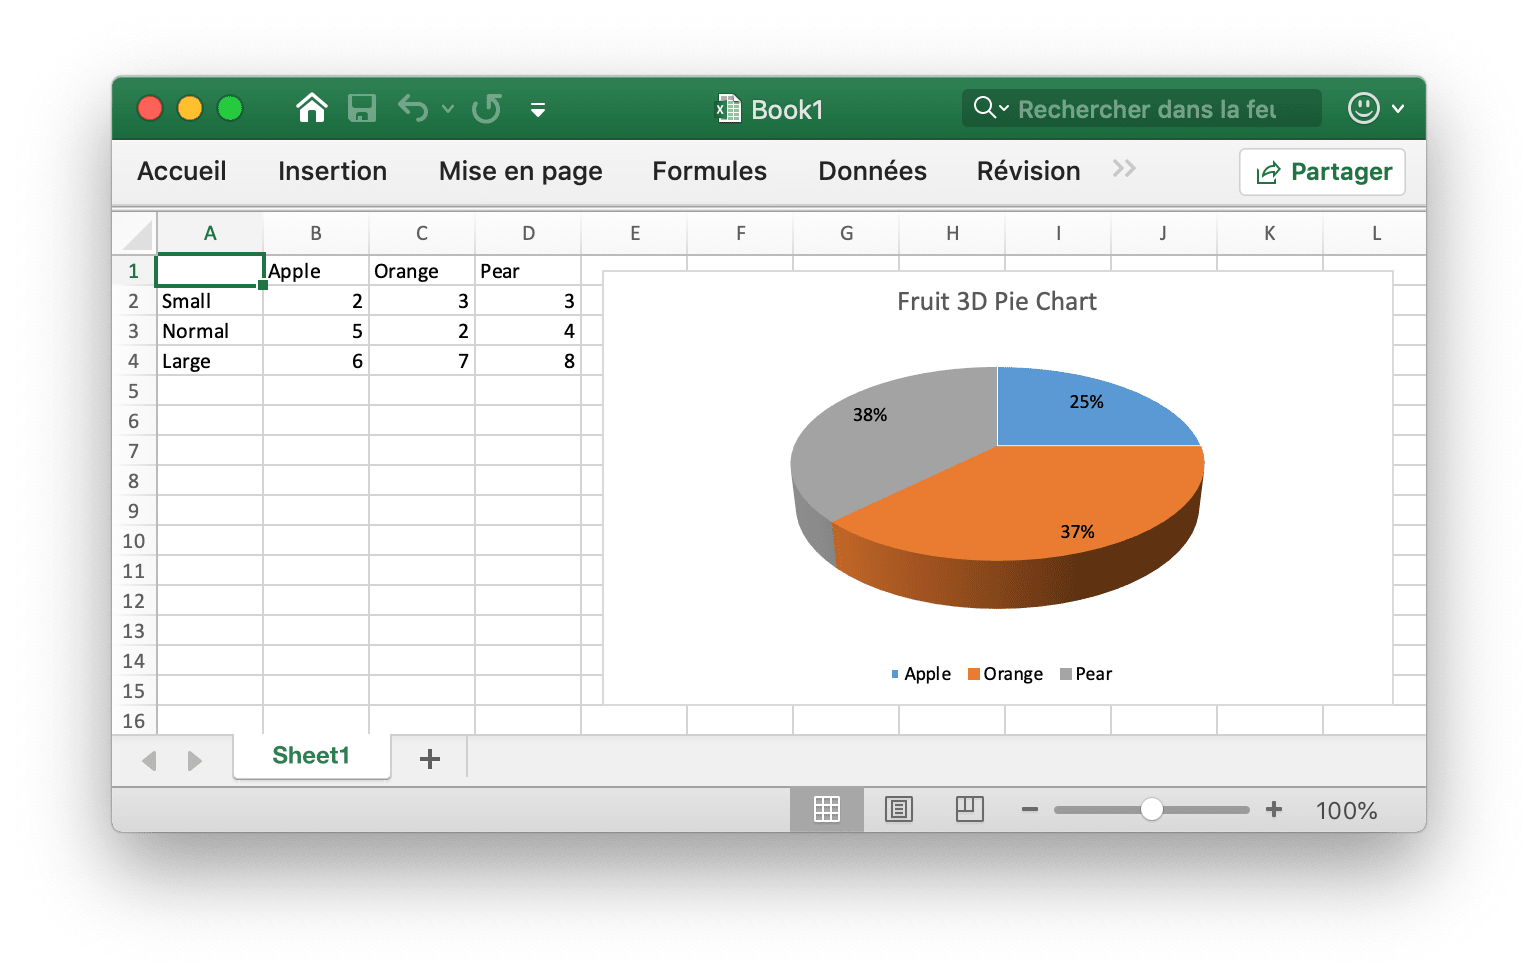
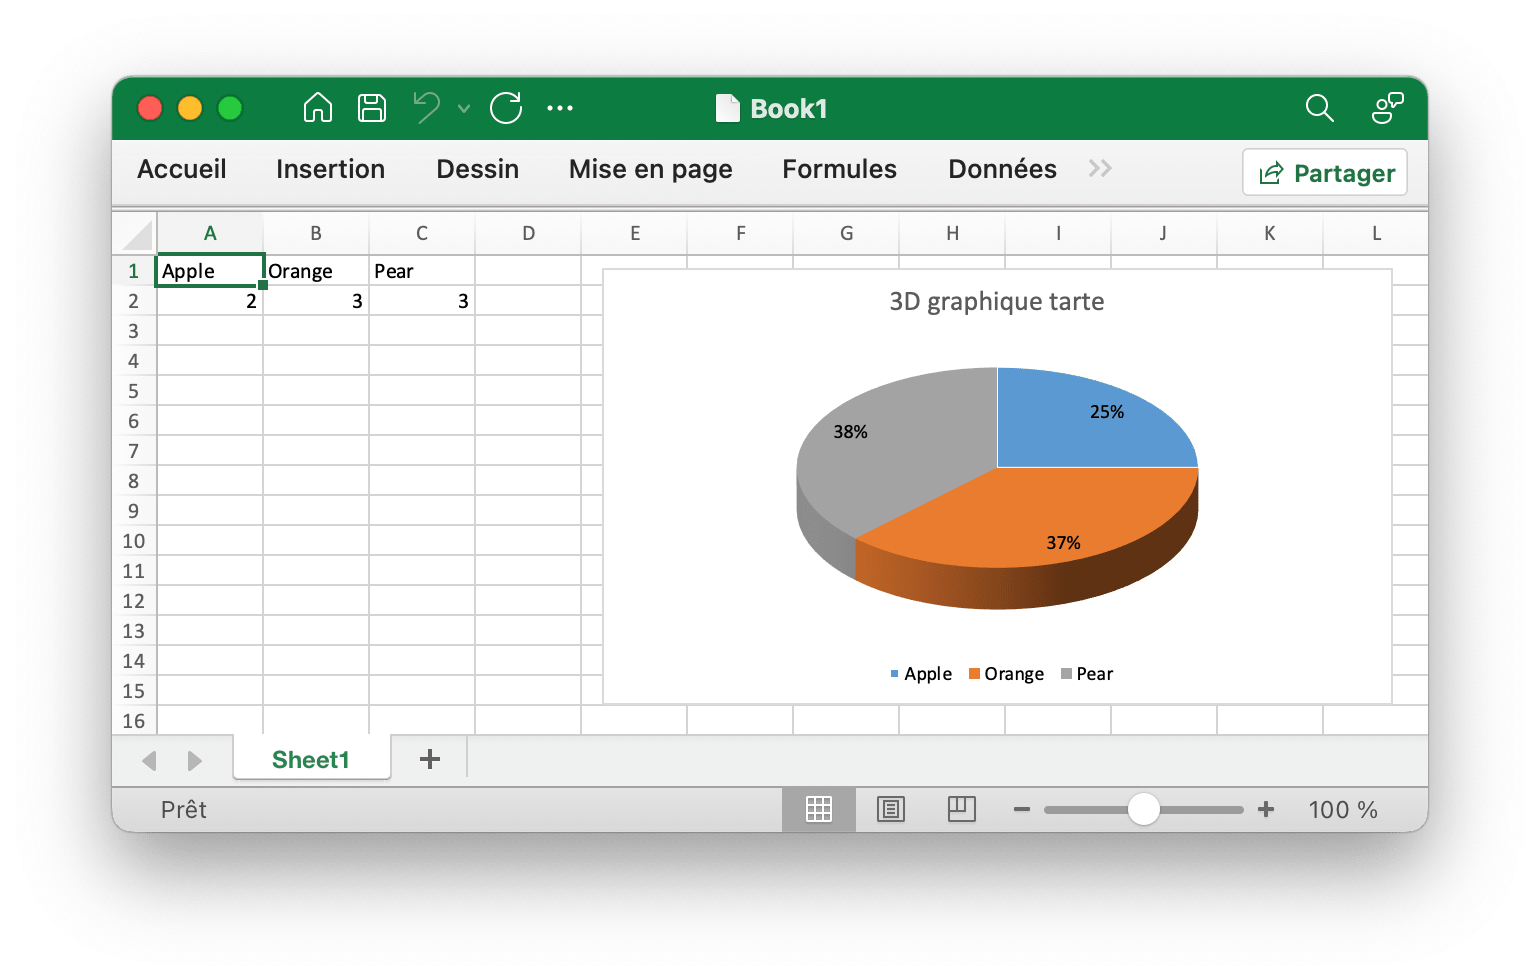
Changed the third parameter for the `AddFilter`
- This update fr version docs of pie/3D pie chart

diff --git a/ru/utils.md b/ru/utils.md
@@ -71,7 +71,7 @@ TableStyleDark11|<img src="../images/table_style/dark/11.png" width="61">||||
 ## Авто фильтр {#AutoFilter}
 
 ```go
-func (f *File) AutoFilter(sheet, rangeRef string, opts *AutoFilterOptions) error
+func (f *File) AutoFilter(sheet, rangeRef string, opts []AutoFilterOptions) error
 ```
 
 AutoFilter предоставляет метод добавления автоматического фильтра в рабочий лист с помощью имени рабочего листа, области координат и настроек. Автофильтр в Excel представляет собой способ фильтрации 2D спектра данных на основе простых критериев.
@@ -81,14 +81,14 @@ AutoFilter предоставляет метод добавления автом
 <p align="center"><img width="612" src="./images/autofilter_01.png" alt="Добавить автоматический фильтр"></p>
 
 ```go
-err := f.AutoFilter("Sheet1", "A1:D4", nil)
+err := f.AutoFilter("Sheet1", "A1:D4", []excelize.AutoFilterOptions{})
 ```
 
 Пример 2, данные фильтра в автофильтре:
 
 ```go
-err := f.AutoFilter("Sheet1", "A1:D4", &excelize.AutoFilterOptions{
-    Column: "B", Expression: "x != blanks",
+err := f.AutoFilter("Sheet1", "A1:D4", []excelize.AutoFilterOptions{
+    {Column: "B", Expression: "x != blanks"},
 })
 ```
 

diff --git a/ar/utils.md b/ar/utils.md
@@ -71,7 +71,7 @@ TableStyleDark11|<img src="../images/table_style/dark/11.png" width="61">||||
 ## فلتر السيارات {#AutoFilter}
 
 ```go
-func (f *File) AutoFilter(sheet, rangeRef string, opts *AutoFilterOptions) error
+func (f *File) AutoFilter(sheet, rangeRef string, opts []AutoFilterOptions) error
 ```
 
 يوفر AutoFilter طريقة لإضافة عامل تصفية تلقائي في ورقة عمل حسب اسم ورقة العمل المحدد ومنطقة الإحداثيات والإعدادات. يعد عامل التصفية التلقائي في Excel طريقة لتصفية نطاق ثنائي الأبعاد من البيانات بناءً على بعض المعايير البسيطة.
@@ -81,14 +81,14 @@ func (f *File) AutoFilter(sheet, rangeRef string, opts *AutoFilterOptions) error
 <p align="center"><img width="612" src="./images/autofilter_01.png" alt="فلتر السيارات"></p>
 
 ```go
-err := f.AutoFilter("Sheet1", "A1:D4", nil)
+err := f.AutoFilter("Sheet1", "A1:D4", []excelize.AutoFilterOptions{})
 ```
 
 مثال 2 ، تصفية البيانات في مرشح تلقائي:
 
 ```go
-err := f.AutoFilter("Sheet1", "A1:D4", &excelize.AutoFilterOptions{
-    Column: "B", Expression: "x != blanks",
+err := f.AutoFilter("Sheet1", "A1:D4", []excelize.AutoFilterOptions{
+    {Column: "B", Expression: "x != blanks"},
 })
 ```
 

diff --git a/ja/utils.md b/ja/utils.md
@@ -71,7 +71,7 @@ TableStyleDark11|<img src="../images/table_style/dark/11.png" width="61">||||
 ## 自動フィルタ {#AutoFilter}
 
 ```go
-func (f *File) AutoFilter(sheet, rangeRef string, opts *AutoFilterOptions) error
+func (f *File) AutoFilter(sheet, rangeRef string, opts []AutoFilterOptions) error
 ```
 
 AutoFilter は、ワークシートの名前、座標領域、および設定によってワークシートに自動フィルタを追加する方法を提供します。Excel の自動フィルタは、いくつかの単純な条件に基づいて 2D 範囲のデータをフィルター処理する方法です。
@@ -81,14 +81,14 @@ AutoFilter は、ワークシートの名前、座標領域、および設定に
 <p align="center"><img width="612" src="./images/autofilter_01.png" alt="自動フィルタの追加"></p>
 
 ```go
-err := f.AutoFilter("Sheet1", "A1:D4", nil)
+err := f.AutoFilter("Sheet1", "A1:D4", []excelize.AutoFilterOptions{})
 ```
 
 例 2，では、オートフィルターでデータをフィルター処理します:
 
 ```go
-err := f.AutoFilter("Sheet1", "A1:D4", &excelize.AutoFilterOptions{
-    Column: "B", Expression: "x != blanks",
+err := f.AutoFilter("Sheet1", "A1:D4", []excelize.AutoFilterOptions{
+    {Column: "B", Expression: "x != blanks"},
 })
 ```
 

diff --git a/de/utils.md b/de/utils.md
@@ -71,7 +71,7 @@ TableStyleDark11|<img src="../images/table_style/dark/11.png" width="61">||||
 ## Automatischer Filter {#AutoFilter}
 
 ```go
-func (f *File) AutoFilter(sheet, rangeRef string, opts *AutoFilterOptions) error
+func (f *File) AutoFilter(sheet, rangeRef string, opts []AutoFilterOptions) error
 ```
 
 AutoFilter bietet die Methode zum Hinzufügen eines automatischen Filters in einem Arbeitsblatt anhand des angegebenen Arbeitsblattnamens, des Koordinatenbereichs und der Einstellungen. Ein automatischer Filter in Excel ist eine Möglichkeit, einen 2D-Datenbereich anhand einiger einfacher Kriterien zu filtern.
@@ -81,14 +81,14 @@ Beispiel 1: Anwenden eines automatischen Filters auf einen Zellbereich `A1:D4` i
 <p align="center"><img width="612" src="./images/autofilter_01.png" alt="Automatischen Filter hinzufügen"></p>
 
 ```go
-err := f.AutoFilter("Sheet1", "A1:D4", nil)
+err := f.AutoFilter("Sheet1", "A1:D4", []excelize.AutoFilterOptions{})
 ```
 
 Beispiel 2: Filtern von Daten in einem automatischen Filter:
 
 ```go
-err := f.AutoFilter("Sheet1", "A1:D4", &excelize.AutoFilterOptions{
-    Column: "B", Expression: "x != blanks",
+err := f.AutoFilter("Sheet1", "A1:D4", []excelize.AutoFilterOptions{
+    {Column: "B", Expression: "x != blanks"},
 })
 ```
 

diff --git a/fr/utils.md b/fr/utils.md
@@ -71,7 +71,7 @@ TableStyleDark11|<img src="../images/table_style/dark/11.png" width="61">||||
 ## Filtre auto {#AutoFilter}
 
 ```go
-func (f *File) AutoFilter(sheet, rangeRef string, opts *AutoFilterOptions) error
+func (f *File) AutoFilter(sheet, rangeRef string, opts []AutoFilterOptions) error
 ```
 
 AutoFilter fournit la méthode pour ajouter un filtre automatique dans une feuille de calcul en fonction du nom de la feuille de calcul, de la zone de coordonnées et des paramètres. Un filtre automatique dans Excel est un moyen de filtrer une plage de données 2D en fonction de critères simples.
@@ -81,14 +81,14 @@ Exemple 1, application d'un autofiltre à une plage de cellules `A1:D4` dans `Sh
 <p align="center"><img width="612" src="./images/autofilter_01.png" alt="Ajouter un filtre automatique"></p>
 
 ```go
-err := f.AutoFilter("Sheet1", "A1:D4", nil)
+err := f.AutoFilter("Sheet1", "A1:D4", []excelize.AutoFilterOptions{})
 ```
 
 Exemple 2, filtrez les données dans un autofiltre:
 
 ```go
-err := f.AutoFilter("Sheet1", "A1:D4", &excelize.AutoFilterOptions{
-    Column: "B", Expression: "x != blanks",
+err := f.AutoFilter("Sheet1", "A1:D4", []excelize.AutoFilterOptions{
+    {Column: "B", Expression: "x != blanks"},
 })
 ```
 

diff --git a/fr/chart/pie3D.md b/fr/chart/pie3D.md
@@ -2,7 +2,7 @@
 
 Par exemple, ajoutez un graphique qui ressemble à ceci:
 
-<p align="center"><img width="769" src="../images/3d_pie_chart.png" alt="créer 3D graphique tarte avec excelize en utilisant Go"></p>
+<p align="center"><img width="770" src="../images/3d_pie_chart.png" alt="créer 3D graphique tarte avec excelize en utilisant Go"></p>
 
 ```go
 package main
@@ -38,7 +38,7 @@ func main() {
         Type: "pie3D",
         Series: []excelize.ChartSeries{
             {
-                Name:       "Amount",
+                Name:       "Montant",
                 Categories: "Sheet1!$A$1:$C$1",
                 Values:     "Sheet1!$A$2:$C$2",
             },
@@ -48,16 +48,11 @@ func main() {
             OffsetY: 10,
         },
         Title: excelize.ChartTitle{
-            Name: "Fruit 3D Pie Chart",
+            Name: "3D graphique tarte",
         },
         PlotArea: excelize.ChartPlotArea{
-            ShowCatName:     false,
-            ShowLeaderLines: false,
-            ShowPercent:     true,
-            ShowSerName:     false,
-            ShowVal:         false,
+            ShowPercent: true,
         },
-        ShowBlanksAs: "zero",
     }); err != nil {
         fmt.Println(err)
         return

diff --git a/es/utils.md b/es/utils.md
@@ -71,7 +71,7 @@ TableStyleDark11|<img src="../images/table_style/dark/11.png" width="61">||||
 ## Filtro automático {#AutoFilter}
 
 ```go
-func (f *File) AutoFilter(sheet, rangeRef string, opts *AutoFilterOptions) error
+func (f *File) AutoFilter(sheet, rangeRef string, opts []AutoFilterOptions) error
 ```
 
 AutoFilter proporciona el método para agregar un filtro automático en una hoja de trabajo por el nombre de la hoja de trabajo, el área de coordenadas y la configuración. Un filtro automático en Excel es una forma de filtrar un rango de datos 2D basado en algunos criterios simples.
@@ -81,14 +81,14 @@ Ejemplo 1, aplicando un filtro automático a un rango de celdas `A1:D4` en la `S
 <p align="center"><img width="612" src="./images/autofilter_01.png" alt="Agregar filtro automático"></p>
 
 ```go
-err := f.AutoFilter("Sheet1", "A1:D4", nil)
+err := f.AutoFilter("Sheet1", "A1:D4", []excelize.AutoFilterOptions{})
 ```
 
 Ejemplo 2, filtrar datos en un filtro automático:
 
 ```go
-err := f.AutoFilter("Sheet1", "A1:D4", &excelize.AutoFilterOptions{
-    Column: "B", Expression: "x != blanks",
+err := f.AutoFilter("Sheet1", "A1:D4", []excelize.AutoFilterOptions{
+    {Column: "B", Expression: "x != blanks"},
 })
 ```
 

diff --git a/ko/utils.md b/ko/utils.md
@@ -71,7 +71,7 @@ TableStyleDark11|<img src="../images/table_style/dark/11.png" width="61">||||
 ## 자동 필터 {#AutoFilter}
 
 ```go
-func (f *File) AutoFilter(sheet, rangeRef string, opts *AutoFilterOptions) error
+func (f *File) AutoFilter(sheet, rangeRef string, opts []AutoFilterOptions) error
 ```
 
 AutoFilter 는 지정된 워크시트 이름, 좌표 영역 및 설정으로 워크시트에 자동 필터를 추가하는 방법을 제공합니다. Excel 의 자동 필터는 몇 가지 간단한 기준에 따라 2D 데이터 범위를 필터링하는 방법입니다.
@@ -81,14 +81,14 @@ AutoFilter 는 지정된 워크시트 이름, 좌표 영역 및 설정으로 워
 <p align="center"><img width="612" src="./images/autofilter_01.png" alt="자동 필터 추가"></p>
 
 ```go
-err := f.AutoFilter("Sheet1", "A1:D4", nil)
+err := f.AutoFilter("Sheet1", "A1:D4", []excelize.AutoFilterOptions{})
 ```
 
 예제 2, 에서는 자동 필터에서 데이터를 필터링합니다:
 
 ```go
-err := f.AutoFilter("Sheet1", "A1:D4", &excelize.AutoFilterOptions{
-    Column: "B", Expression: "x != blanks",
+err := f.AutoFilter("Sheet1", "A1:D4", []excelize.AutoFilterOptions{
+    {Column: "B", Expression: "x != blanks"},
 })
 ```
 

diff --git a/zh-tw/utils.md b/zh-tw/utils.md
@@ -71,7 +71,7 @@ TableStyleDark11|<img src="../images/table_style/dark/11.png" width="61">||||
 ## 自動過濾器 {#AutoFilter}
 
 ```go
-func (f *File) AutoFilter(sheet, rangeRef string, opts *AutoFilterOptions) error
+func (f *File) AutoFilter(sheet, rangeRef string, opts []AutoFilterOptions) error
 ```
 
 根據給定的工作表名、儲存格坐標區域和條件式格式創建自動過濾器。Excel 中的自動過濾器可以對一些簡單的二維資料資料進列資料篩選。
@@ -81,14 +81,14 @@ func (f *File) AutoFilter(sheet, rangeRef string, opts *AutoFilterOptions) error
 <p align="center"><img width="612" src="./images/autofilter_01.png" alt="創建自動過濾器"></p>
 
 ```go
-err := f.AutoFilter("Sheet1", "A1:D4", nil)
+err := f.AutoFilter("Sheet1", "A1:D4", []excelize.AutoFilterOptions{})
 ```
 
 例2，在名稱為 `Sheet1` 的工作表 `A1:D4` 區域創建帶有格式條件的自動過濾器：
 
 ```go
-err := f.AutoFilter("Sheet1", "A1:D4", &excelize.AutoFilterOptions{
-    Column: "B", Expression: "x != blanks",
+err := f.AutoFilter("Sheet1", "A1:D4", []excelize.AutoFilterOptions{
+    {Column: "B", Expression: "x != blanks"},
 })
 ```
 

diff --git a/zh-hans/utils.md b/zh-hans/utils.md
@@ -71,7 +71,7 @@ TableStyleDark11|<img src="../images/table_style/dark/11.png" width="61">||||
 ## 自动过滤器 {#AutoFilter}
 
 ```go
-func (f *File) AutoFilter(sheet, rangeRef string, opts *AutoFilterOptions) error
+func (f *File) AutoFilter(sheet, rangeRef string, opts []AutoFilterOptions) error
 ```
 
 根据给定的工作表名、单元格坐标区域和条件格式创建自动过滤器。Excel 中的自动过滤器可以对一些简单的二维数据数据进行数据筛选。
@@ -81,14 +81,14 @@ func (f *File) AutoFilter(sheet, rangeRef string, opts *AutoFilterOptions) error
 <p align="center"><img width="612" src="./images/autofilter_01.png" alt="创建自动过滤器"></p>
 
 ```go
-err := f.AutoFilter("Sheet1", "A1:D4", nil)
+err := f.AutoFilter("Sheet1", "A1:D4", []excelize.AutoFilterOptions{})
 ```
 
 例2，在名称为 `Sheet1` 的工作表 `A1:D4` 区域创建带有格式条件的自动过滤器：
 
 ```go
-err := f.AutoFilter("Sheet1", "A1:D4", &excelize.AutoFilterOptions{
-    Column: "B", Expression: "x != blanks",
+err := f.AutoFilter("Sheet1", "A1:D4", []excelize.AutoFilterOptions{
+    {Column: "B", Expression: "x != blanks"},
 })
 ```
 

diff --git a/en/utils.md b/en/utils.md
@@ -71,7 +71,7 @@ TableStyleDark11|<img src="../images/table_style/dark/11.png" width="61">||||
 ## Auto filter {#AutoFilter}
 
 ```go
-func (f *File) AutoFilter(sheet, rangeRef string, opts *AutoFilterOptions) error
+func (f *File) AutoFilter(sheet, rangeRef string, opts []AutoFilterOptions) error
 ```
 
 AutoFilter provides the method to add an auto filter in a worksheet by given worksheet name, range reference, and settings. An auto filter in Excel is a way of filtering a 2D range of data based on some simple criteria.
@@ -81,14 +81,14 @@ Example 1, applying an auto filter to a cell range `A1:D4` in the `Sheet1`:
 <p align="center"><img width="612" src="./images/autofilter_01.png" alt="Add auto filter"></p>
 
 ```go
-err := f.AutoFilter("Sheet1", "A1:D4", nil)
+err := f.AutoFilter("Sheet1", "A1:D4", []excelize.AutoFilterOptions{})
 ```
 
 Example 2, filter data in an auto filter:
 
 ```go
-err := f.AutoFilter("Sheet1", "A1:D4", &excelize.AutoFilterOptions{
-    Column: "B", Expression: "x != blanks",
+err := f.AutoFilter("Sheet1", "A1:D4", []excelize.AutoFilterOptions{
+    {Column: "B", Expression: "x != blanks"},
 })
 ```
 

diff --git a/fr/chart/pie.md b/fr/chart/pie.md
@@ -38,7 +38,7 @@ func main() {
         Type: "pie",
         Series: []excelize.ChartSeries{
             {
-                Name:       "Amount",
+                Name:       "Montant",
                 Categories: "Sheet1!$A$1:$C$1",
                 Values:     "Sheet1!$A$2:$C$2",
             },
@@ -48,16 +48,11 @@ func main() {
             OffsetY: 10,
         },
         Title: excelize.ChartTitle{
-            Name: "Fruit Pie Chart",
+            Name: "Graphique tarte",
         },
         PlotArea: excelize.ChartPlotArea{
-            ShowCatName:     false,
-            ShowLeaderLines: false,
-            ShowPercent:     true,
-            ShowSerName:     false,
-            ShowVal:         false,
+            ShowPercent: true,
         },
-        ShowBlanksAs: "gap",
     }); err != nil {
         fmt.Println(err)
         return
